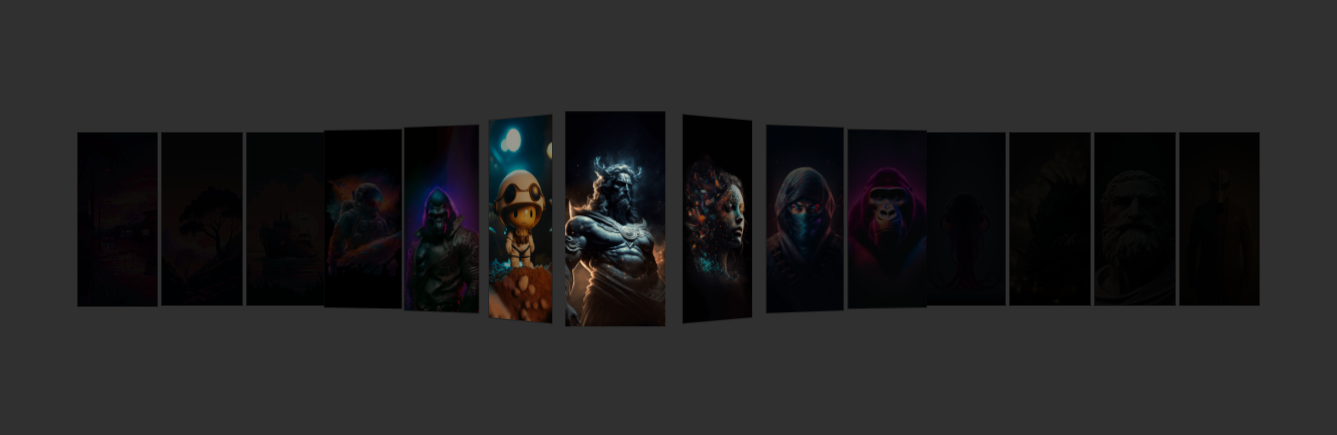
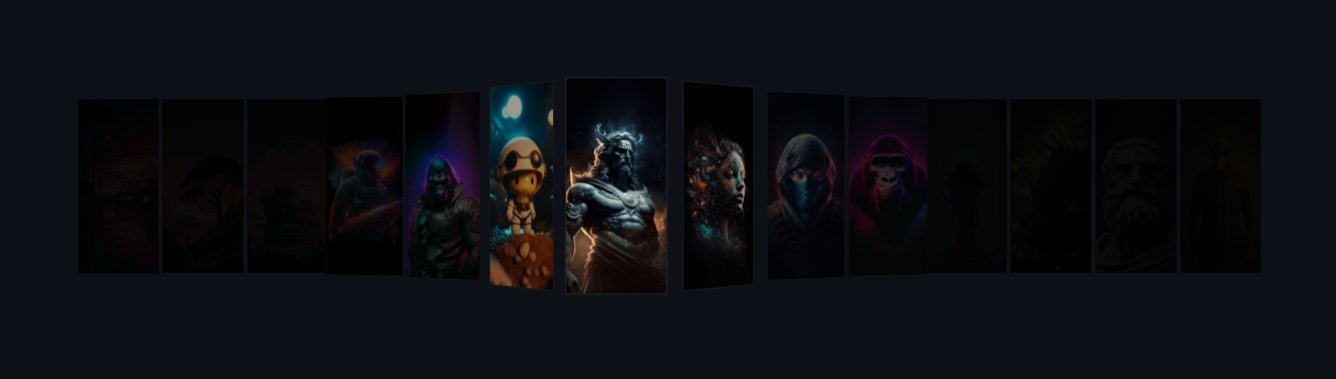
change bg colour

diff --git a/style.css b/style.css
@@ -3,7 +3,7 @@ body {
     display: flex;
     justify-content: center;
     align-items: center;
-    background-color: #303030;
+    background-color: #0D1117;
 }
 
 img {
